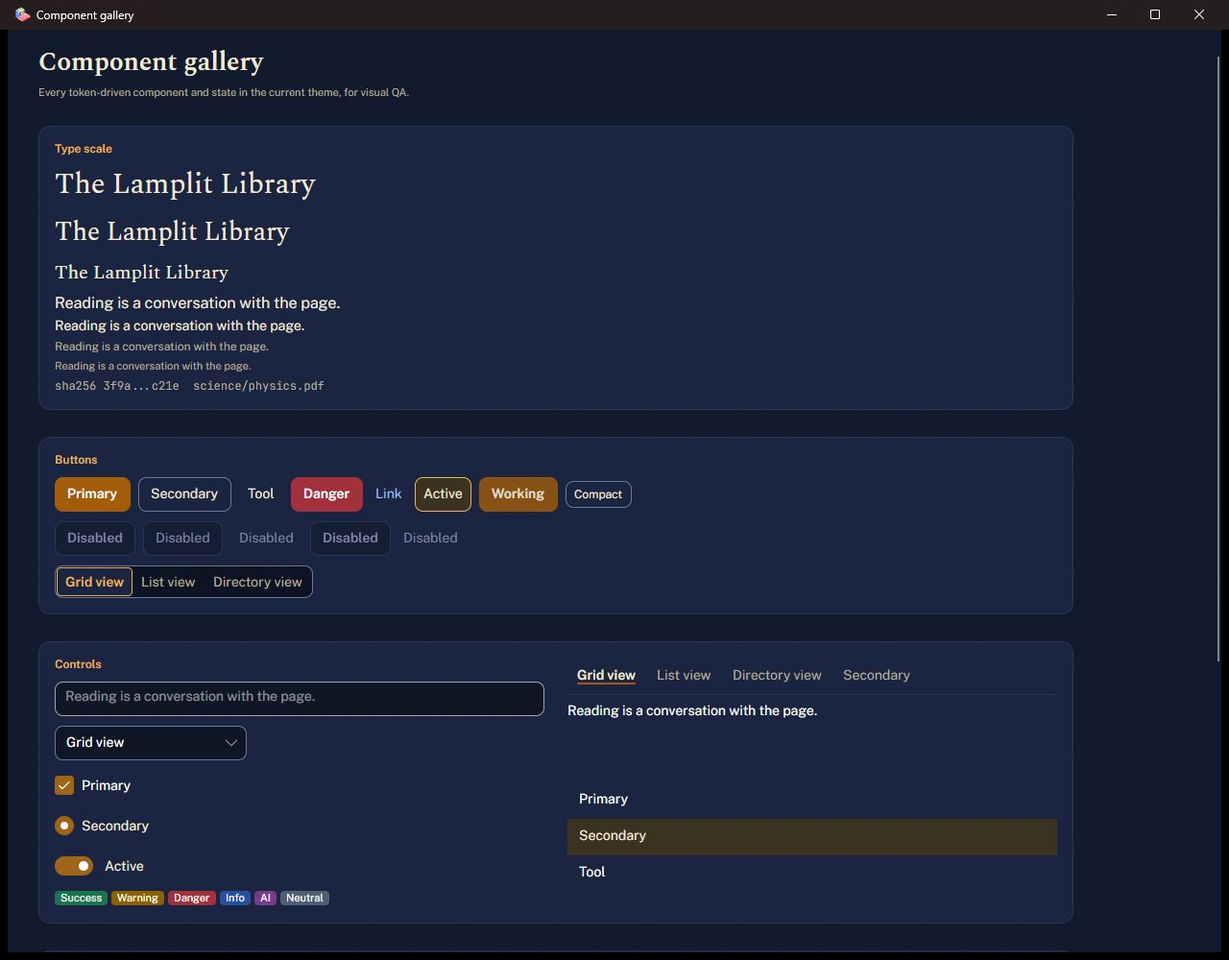
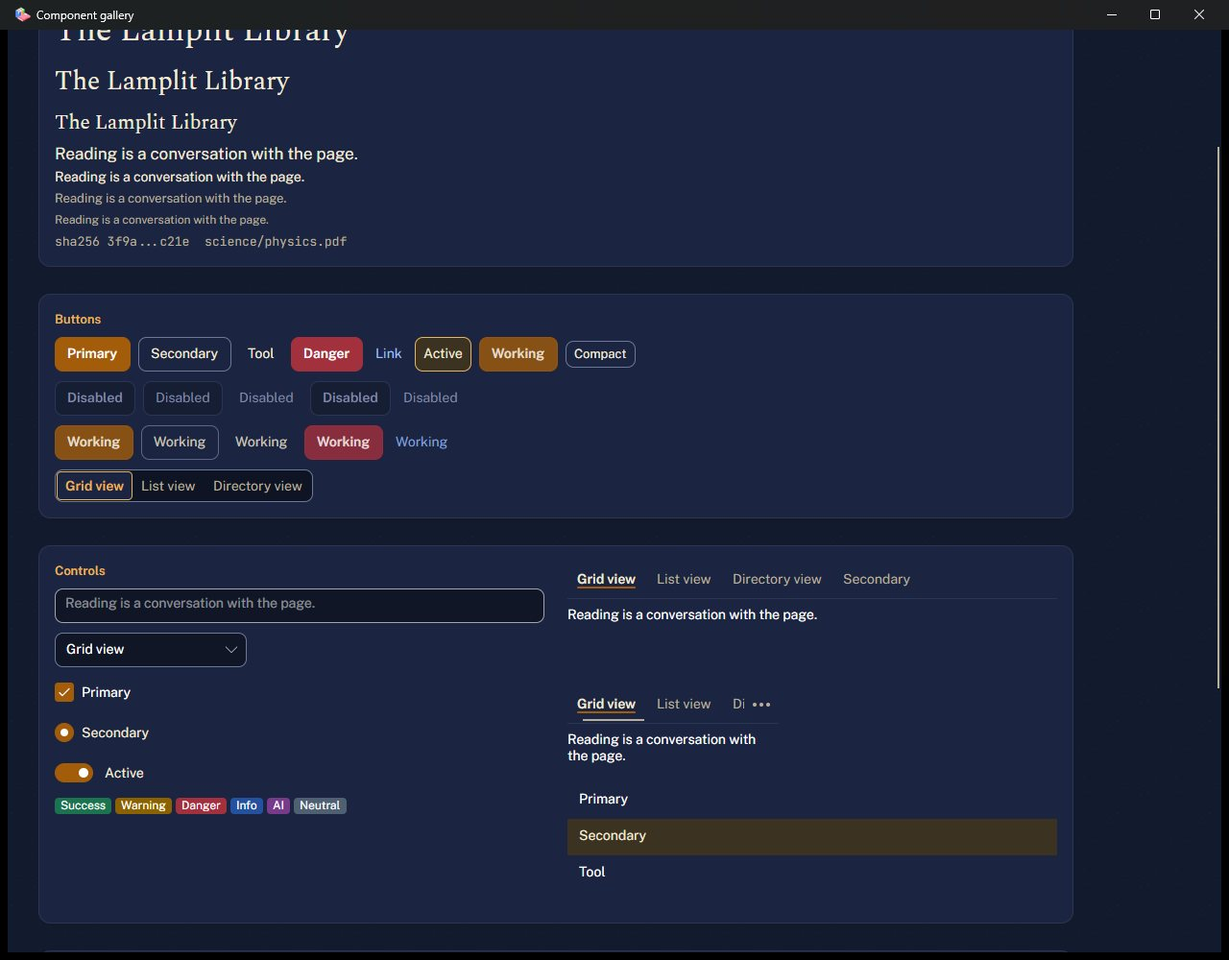
docs(kaizen): record phase 09 completion, gates and evidence
Rewrite the Phase 09 completion record for branch kaizen/phase-09
(rollback acb9d36c): the typeface decision, tasks 9.1-9.11 with
commits, gates with evidence classes, per-journey results at both
sizes in Light and Dark against the baseline K IDs, the design-quality
gate, the HEURISTIC product-design-audit re-score and the NOT ASSESSED
items with owners. Status is IMPLEMENTED, not COMPLETE: the
requirement-accountability script fails on main's archived aug-39
matrix (K100) and the owner walkthrough is pending.

Replace the stale after-screenshots with 22 captures from the final
build (five surfaces at 1280x800 and 1920x1080, Light and Dark, plus
the component gallery). Update the status register, execution log,
milestones, execution status and defect register (K15 partly
resolved, K105 fast-suite slowdown, K106 focus-ring regression fixed
in 5520c82c).

Tested: restore, Release build (0 warnings), vulnerable scan,
analyzers, format, token lint and fast suite (52 + 1,262 + 367 pass)
on 5520c82c; golden journeys under the desktop lock, run
phase09-final2: 78 PASS, 0 FAIL, 16 NOT ASSESSED placeholders;
every relative link in the record resolves.

Changed region(s): [[0.0312, 0.031, 0.6562, 0.961], [0.6875, 0.682, 0.75, 0.713], [0.6875, 0.589, 0.75, 0.62]]

diff --git a/docs/implementation/execution/phase-sept23-09-completion.md b/docs/implementation/execution/phase-sept23-09-completion.md
@@ -1,167 +1,182 @@
 # Sept-23 Phase 09 completion: design system and visual identity ("The Lamplit Library")
 
-Status: **IMPLEMENTED; owner walkthrough and post-fix journey re-run pending** (2026-09-27).
-Branch: lane worktree `agent-a72db4d63c47d6319` (not pushed, not merged), from `acb9d36`.
-Rollback point: `acb9d36`.
+Status: **IMPLEMENTED** (2026-11-19). Not COMPLETE: the open Definition of Done items are listed
+in [Definition of Done check](#definition-of-done-check).
+Branch: `kaizen/phase-09` (published by the autorun driver; not merged by this lane).
+Rollback point: `acb9d36c`.
 Plan: [phase-09](../../plans/sept-23-kaizen/phases/phase-09-design-system-and-visual-identity.md).
-Decision record: [ADR-0019](../../adrs/0019-lamplit-visual-identity.md).
-Defects: K15 (fixed), supports K14 and K33. Owner feedback applied mid-phase (via the
-coordinator): "the UI is a bit dull, too greyish and boring. Amaze me!" The coordinator's
-"Lamplit Library" brief replaced the phase document's neutral reading.
+Decision records: [ADR-0019](../../adrs/0019-lamplit-visual-identity.md); D-14 (the "Lamplit
+Library" brief) and D-15 (TabStrip overflow menu) in the
+[execution log](../../plans/sept-23-kaizen/EXECUTION-LOG.md).
+Defects: K15 (partly resolved, see the [defect register](../../plans/sept-23-kaizen/03-defect-register.md));
+K101 and K106 found and fixed here; K102–K105 found here and handed on.
 
 ## Typeface decision
 
-**Spectral** (display: destination headings, card titles, the home greeting, generated cover
-titles and monograms), **Public Sans** (UI, body, controls, badges, cover author small caps),
-**JetBrains Mono** (paths, hashes, data). All SIL OFL 1.1, bundled, unchanged. No banned font.
-Reason: a humanist editorial serif for a reading product, a neutral legible grotesque for dense
-UI, and a mono distinct from both.
+**Spectral** for display (destination headings, card titles, the home greeting, generated cover
+titles and monograms). **Public Sans** for UI, body text, controls, badges and the small-caps
+author on covers. **JetBrains Mono** for paths, hashes and data. All three are SIL OFL 1.1 and
+bundled. Public Sans ships as static Regular/Medium/SemiBold/Bold instances cut from the
+variable font, because Avalonia ignores variation axes and resolved every weight to Thin.
+Reason: a humanist editorial serif suits a reading product, a neutral, legible grotesque suits
+dense UI, and the mono is distinct from both. Full text:
+[developer guide, typeface decision](../../developer-guide/design-system.md#typeface-decision).
 
-## What changed
+## Tasks
 
-| Task | Result | Commit |
+| Task | Result | Commits |
 |---|---|---|
-| 9.1 Baseline | Real-window baseline (old build, Light, 1280×800) under the desktop lock; three "before" captures kept in `evidence/.../phase-09/before/`. Dark baseline: NOT ASSESSED (the runner stops after the Light pass fails on the known K32 page-turn budget) | — |
-| 9.2 Type scale | Caption 12 (floor), Small 13, Body 14, BodyLarge 16, Subtitle 17, Title 21, Headline 27, Display 34; `Type.Size.Glyph` for glyph icons. Literal `FontSize` in `Views/**`: **16 → 0** | `c41600a`, `6316143` |
-| 9.3 Colour roles | Lamplit palette: jewel primitives (amber, lapis, malachite, garnet, plum, slate, saffron, teal) and roles `Surface.*`, `Text.*`, `Control.*`, `Accent.Primary/Hover/Pressed/Text/OnAccent/Glow`, `Link`, `Selection.*`, `Status.*`, `Rail.*`, `Focus`, `Hue.*`, `Dest.*`, `Cover.Gilt`; paper-grain canvas brush; hero gradient; warm elevation shadows. Night Library Dark theme (indigo #121A2E, parchment text, gold accents). Fluent accent pinned to amber | `c41600a` |
-| 9.4 Components + gallery | Button variants `primary`, secondary (default), `tool`/`quiet`, `danger`, `link` + `icon`, `compact`, `busy`, `active`; states rest/hover/pressed/focus-visible/disabled. TabStrip (Body size, one scrollable row), segmented control, badge/chip, text field, toggles, list/tree rows, card, book card. Living gallery `Views/Dev/ComponentGallery.axaml` (hidden QA command **Ctrl+Shift+Alt+G**), rendered Light/Dark by a headless test | `c41600a`, `d3fc2bc` |
-| 9.5 View migration | Every accent-filled button uses a variant; `White`/`Black` literals **61 → 0**; hex **0 → 0**; buttons with local fills **43 → 1** (the Search panel, owned by the concurrent Phase 13 lane; token substitution only) | `6316143` |
-| 9.6 Selection/focus | `ListBoxItem`/`TreeViewItem`/`ToggleButton` selection use `Selection.*` (amber tint + 2 px amber border; amber glow on book cards); the salmon OS accent no longer appears. 2 px `Focus` ring on buttons, tabs, list rows, text fields, combo; rail has its own `Rail.Focus` | `c41600a` |
-| 9.7 Icons (D-07) | 85 `IconCatalog` keys → Lucide outlines (ISC, `@iconify-json/lucide` 1.2.110, licence verified from the vendored package metadata) recoloured as duotones in destination/category hues by `scripts/icons/New-DuotoneIcons.py`. The previous Flaticon/Freepik files had no licence record and were superseded. `docs/governance/asset-licence-register.md` and `Assets/icons/LICENSE-ICONS.txt` added | `921d1c5` |
-| 9.8 Generated covers | `GeneratedCover`: FNV-1a title hash → 8 jewel cloths × 3 weaves, gradient, spine band + edge highlight, gilt frame, Spectral title, small-caps author (omitted when unknown), monogram below 100 px. Pure vector, no file write. Extracted covers still win | `d1fdeed` |
-| 9.8+ Library home | Greeting header (morning/afternoon/evening), library size, strip of books to continue with progress rings, or the first shelved books when none is in progress. Keys `Catalogue.Home.*` (en, fr) | `d1fdeed` |
-| 9.9 QR | `QrCodeView` draws QRCoder modules as vectors with a 4-module quiet zone and ≥ 4 px modules; the 4 px Consolas text QR is gone | `6316143` |
-| 9.10 Lint | `scripts/Test-DesignTokens.ps1` + CI step. MEASURED red on a seeded `FontSize="11" Foreground="White"` (2 violations, exit 1) and green after removal (exit 0) | `589ffbe` |
-| Motion | Card lift, shadow and button colour transitions only under the window `motion` class, withheld when Windows "Show animations" is off or `OGMA_REDUCED_MOTION=1` (`MotionPreference`) | `c41600a` |
-| Rail | Deep midnight-ink rail in both themes; per-destination hue for icon, active indicator and the header accent bar | `8d825a5` |
-| 9.11 Re-score | See the design-quality gate and score below | `ecc1cba`, this record |
+| 9.1 Baseline | The real-window baseline (old build, Light, 1280x800) is in `evidence/.../phase-09/before/`. The Dark baseline is NOT ASSESSED: the runner stopped after the Light pass failed on K32 | — |
+| 9.2 Type scale | Caption 12 (the floor), Small 13, Body 14, BodyLarge 16, Subtitle 17, Title 21, Headline 27, Display 34. Line-height and icon-size tokens were added. Literal `FontSize` in views went from 16 to 0. Preference changes no longer rewrite the scale (K101) | `c41600a3`, `63161432`, `591f50a5` |
+| 9.3 Colour roles | Lamplit jewel primitives and semantic roles (`Surface`, `Text`, `Control`, `Accent`, `Selection`, `Status`, `Rail`, `Focus`, `Dest`, `Cover`), plus the Night Library dark theme | `c41600a3`, `70a0bd68`, `55e4632e` |
+| 9.4 Components and gallery | Button variants and states, toggle and drop-down buttons, TabStrip, segmented control, badge, text field (focused fields stay on the raised surface), list and tree rows, cards. The living gallery opens with Ctrl+Shift+Alt+G | `c41600a3`, `d3fc2bce`, `33fcd467`, `b4eebd46` |
+| 9.5 View migration | Every view uses variants and tokens. `White`/`Black` literals went from 61 to 0; hex literals in views are 0. The lint was extended to code-behind and `App.axaml` | `63161432`, `56c6aa27` |
+| 9.6 Selection and focus | Amber `Selection.*` replaces the salmon OS accent. The 2 px Focus ring is now a layout-neutral focus adorner (K106) | `c41600a3`, `5520c82c` |
+| 9.7 Icons (D-07) | 85 Lucide (ISC) duotone icons with a licence register | `921d1c5c` |
+| 9.8 Covers and home | Generated cloth-bound covers, a top-anchored extracted cover, a greeting home strip, and in-place grid updates | `d1fdeed0`, `fee04e5b`, `197f0794`, `8d825a5e` (rail) |
+| 9.9 QR | A vector QR with a quiet zone and modules of at least 4 px | `63161432` |
+| 9.10 Lint | `scripts/Test-DesignTokens.ps1` plus a CI step | `589ffbed`, `56c6aa27` |
+| 9.11 Re-score and record | See the [design-quality gate](#design-quality-gate). The TabStrip overflow menu (D-15) was brought forward from Phases 11/12 | `ecc1cbac`, `62824031`, `ce2132ea`, `e09b7f5b`, this record |
 
-## Tests added
-
-`tests/OgmaLibrary.Tests.Ui/Sept23Phase09DesignSystemTests.cs` (88 cases with theories):
-contrast matrix — 46 text pairs ≥ 4.5:1 and 33 non-text pairs ≥ 3:1, each in Light and Dark;
-Night canvas is indigo and dark; type floor and ratios; no literal font size or colour in any
-view; every SVG registered, duotone and licensed; cover determinism and variety (17 titles →
-≥ 5 cloths); cover render in both themes; variant fills and focus ring; tabs at 14 px on one
-row; gallery renders Light/Dark with no missing en/fr label.
+`94764452` merged `main` into the lane, and `f7b792c9` is the earlier version of this record.
+The focus-ring regression fix is `5520c82c`. Tests are in
+`tests/OgmaLibrary.Tests.Ui/Sept23Phase09DesignSystemTests.cs`: the contrast matrix in both
+themes, the type floor and ratios, no literal size or colour, icons and licences, cover
+determinism, variants, tabs, gallery labels in en and fr, density scaling, and the focus ring
+leaving layout unchanged.
 
 ## Gates
 
-Windows 11, Release, lane branch after `git merge main --no-ff` (`778314a`, no conflicts: `main` only
-brought docs since `acb9d36`, so no view from `main` needed re-tokening).
+Windows 11, Release. First run on `135187f3` (the lane head before this slice's fix), logs in
+`artifacts/phase09-gates/`. Re-run on the final code commit `5520c82c` (restore, build,
+vulnerable scan, analyzers, fast suite), logs in `artifacts/phase09-gates/final/` (local).
 
 | Gate | Result | Evidence class |
 |---|---|---|
-| `Test-RequirementAccountability.ps1` | PASS (101 FRs, 29 NFRs, 32 controls, 162 IDs) | MEASURED |
-| `dotnet restore --locked-mode` | PASS | MEASURED |
-| `dotnet format --verify-no-changes` | PASS (0 changes; re-run after the final fixes) | MEASURED |
-| Release build | PASS, 0 warnings, 0 errors (re-run after the final fixes) | MEASURED |
-| `dotnet list package --vulnerable --include-transitive` | PASS, no vulnerable package in 11 projects | MEASURED |
-| `dotnet format analyzers --severity warn` | PASS | MEASURED |
-| `scripts/Test-DesignTokens.ps1` | PASS ("clean"; re-run after the final fixes) | MEASURED |
-| `dotnet test OgmaLibrary.sln -m:1 --filter "Category!=Performance"` on `778314a` | Architecture 52/52, core 1,152/1,152, UI 303/303 (1,507, 0 failures). The same command also ran the E2E project (18/43 pass) **outside the desktop lock** while other lanes ran real-window work, so those E2E numbers are not evidence; the locked run below is | MEASURED |
-| UI project after the final fixes (`BodyFont_*`, cover brush) | 307/307 | MEASURED |
-| Core/architecture after the final fixes | Pending: re-run `dotnet test ... --filter "Category!=Performance"` (only App views/theme and UI tests changed) | NOT ASSESSED |
+| `Test-RequirementAccountability.ps1` | **FAIL**: it throws "Requirement-to-phase matrix not found: …docs\plans\aug-39\appendices\01-requirement-phase-matrix.md". Main removed `aug-39` in `3b985c67` (K100). Not caused by Phase 09 | MEASURED |
+| `dotnet restore --locked-mode` | PASS (exit 0 on both commits) | MEASURED |
+| `dotnet format --verify-no-changes` | PASS (exit 0); re-run on `5520c82c`: PASS | MEASURED |
+| Release build | PASS, 0 warnings, 0 errors (both commits) | MEASURED |
+| `dotnet list package --vulnerable --include-transitive` | PASS: none of the 11 projects has a vulnerable package (both commits) | MEASURED |
+| `dotnet format analyzers --severity warn` | PASS (exit 0, both commits) | MEASURED |
+| `dotnet test -m:1` (fast suite) | On `5520c82c`: Architecture 52/52, OgmaLibrary.Tests 1,262/1,262 (16.2 min, K105), Ui 367/367, 0 failures. On `135187f3`: Architecture 50/50 (the first log does not list test names, so the cause of the 50 → 52 difference is not established; no skip or trait exists in that project), 1,262/1,262 (18 min 29 s), 364/364 | MEASURED |
+| `scripts/Test-DesignTokens.ps1` | PASS ("Design-token lint: clean."), also on `5520c82c` | MEASURED |
+| E2E app build (`-p:OgmaE2EHooks=true`) | PASS, 0 warnings, 0 errors (on `5520c82c`) | MEASURED |
+| `shelf3d` npm gates | Not applicable (`src/shelf3d` unchanged) | — |
+| Hosted CI run | NOT ASSESSED (the driver pushes after this session) | NOT ASSESSED |
 
-Red/green: `BodyFont_ResolvesToTheRequestedWeightNotTheThinDefault` failed 4/4 with the old variable
-file (`Expected "Public Sans", Actual "Public Sans Thin"`) and passes 4/4 with the static instances.
+Red and green runs: `FocusRing_DoesNotChangeControlSize` failed 3/3 (focused width 61 → 63 px)
+and passes 3/3 after `5520c82c`. Earlier slices: K101 `DensityScaling_*` and `BodyFont_*`.
 
 ## Real-window results
 
-### Golden journeys (desktop lock, run id `phase09-all`, 1280x800 and 1920x1080)
+### Golden journeys (desktop lock owner `phase-09`, Light and Dark, 1280x800 and 1920x1080)
 
-Build: lane at `778314a` (after the merge, **before** the three fixes below). Summary:
-`artifacts/e2e/phase09-all/results.md` (local, not committed). 43 tests: 28 pass, 15 fail.
+Final run `phase09-final2` on `5520c82c` (`artifacts/e2e/phase09-final2/results.md`, local).
+Every assessed test passes in both themes and at both sizes: **78 PASS, 0 FAIL, 16 NOT
+ASSESSED** (39 per theme; the NOT ASSESSED rows are the G9–G12 placeholders). The previous run on `135187f3`
+(`artifacts/e2e/phase09-final`) is shown for comparison.
 
-| Journey | 1280x800 | 1920x1080 | On `main` | Regression? |
+| Journey | 1280x800 L / D | 1920x1080 L / D | Run on `135187f3` | Baseline (audit) K IDs |
 |---|---|---|---|---|
-| G1 first run | PASS | PASS | PASS | no |
-| G2 add library, covers | PASS | PASS | PASS | no |
-| G3 read 50 pages | BASELINE-FAIL (K32, K94) | BASELINE-FAIL | failing | no |
-| G4 search | BASELINE-FAIL (K40, K41) | BASELINE-FAIL | failing | no |
-| G5 resume | PASS | PASS | PASS | no |
-| G6 invalid files | PASS | PASS | PASS | no |
-| G7 Advisor unconfigured | PASS | PASS | PASS | no |
-| G8 worker killed while reading | PASS (baseline cleared) | PASS (baseline cleared) | PASS | no |
-| G8 corrupt settings | BASELINE-FAIL (K95, K28) | BASELINE-FAIL | failing | no |
-| Navigation (3 tests) | PASS | PASS | PASS | no |
-| Settings (2 tests) | PASS | PASS | PASS | no |
-| A11yNames catalogue / search | PASS / BASELINE-FAIL (K40, K41) | PASS / BASELINE-FAIL | — | no |
-| Smoke, Harness (3) | PASS | n/a | PASS | no |
-| ScanOcrSearch | FAIL (K21: no OCR badge, OCR search misses) | FAIL | failing | no (owned by stabilisation lane / Phase 13) |
-| LaunchCycles | FAIL (5/20 closes needed a kill; K71) | n/a | failing (3/20) | no Phase 09 cause; load-sensitive (K71, Phase 24) |
-| G9–G12 placeholders | NOT ASSESSED | NOT ASSESSED | — | — |
+| G1 first run | PASS / PASS | PASS / PASS | PASS | — |
+| G2 add library, covers | PASS / PASS | PASS / PASS | PASS | was failing at the audit |
+| G3 read 50 pages (p95 ≤ 250 ms) | PASS / PASS | PASS / PASS | 3 of 4 FAIL (Dark 1920 p95 257 ms; page did not advance in Dark 1280 and Light 1920) | K32, K94: **cleared in this run, but not yet stable** |
+| G4 search, expected book in top 3 | PASS / PASS | PASS / PASS | Light 1920 FAIL (author "Grace Namutebi" → top 3 empty) | K40, K41: **cleared in this run, but not yet stable** |
+| G5 resume after relaunch | PASS / PASS | PASS / PASS | Dark 1280 FAIL ("Could not leave page 6") | — (flake, not reproduced) |
+| G6 invalid files | PASS / PASS | PASS / PASS | PASS | was failing |
+| G7 Advisor unconfigured | PASS / PASS | PASS / PASS | PASS | — |
+| G8 worker killed while reading | PASS / PASS | PASS / PASS | PASS | baseline cleared earlier |
+| G8 corrupt settings | PASS / PASS | PASS / PASS | PASS | K95, K28 (passing since the stabilisation lane) |
+| Navigation (3 tests) | PASS / PASS | PASS / PASS | Drawers FAIL at 1280, both themes | **K106**, a Phase 09 regression, fixed in `5520c82c` |
+| Settings (2 tests) | PASS / PASS | PASS / PASS | PASS | — |
+| A11yNames catalogue / search | PASS / PASS | PASS / PASS | PASS | — |
+| ScanOcrSearch | PASS / PASS | PASS / PASS | PASS | K21, K97 (passing since the stabilisation lane / Phase 17) |
+| LaunchCycles (20 launch/close) | PASS / PASS | n/a | PASS | K71 (load-sensitive; passed in both runs) |
+| Smoke, Harness (3) | PASS / PASS | n/a | PASS | — |
+| G9–G12 placeholders | NOT ASSESSED | NOT ASSESSED | NOT ASSESSED | owned by Phases 10, 11, 18, 19–20 |
 
-**No journey that passes on `main` regressed.** Post-fix journey re-run: **pending** (next step:
-`& ./scripts/Use-DesktopLock.ps1 -Owner 'phase-09' -ScriptBlock { ./tests/OgmaLibrary.Tests.E2E/Invoke-GoldenJourneys.ps1 -All -Sizes 1280x800,1920x1080 }`
-on the final commit; G2 is the one most likely affected, by the cover brush change).
+The G3, G4 and G5 failures on `135187f3` did not reproduce on the final build. The earlier
+failures were load-sensitive (G3's p95 was 257 ms against a 250 ms budget), so this run does not
+close K32 or K40; one green run is not a trend. The K106 failure was deterministic: the
+Navigation re-check `phase09-nav-recheck` failed again before the fix.
 
-### Visual defects found in the real window and fixed
+### Screenshots (final build `5520c82c`, synthetic corpus, isolated data dir, desktop lock)
 
-| Defect (seen in the first "after" captures) | Root cause | Fix | Evidence |
-|---|---|---|---|
-| All Public Sans text rendered as faint grey hairlines in Light ("greyish" even though the text tokens pass 4.5:1): darkest rendered ink on "Appearance" was `#746D59` for a `#1F1A14` token | The bundled `PublicSans-VF.ttf` has default instance **Thin (100)**; Avalonia ignores variation axes, so every weight resolved to "Public Sans Thin" | Cut static Regular/Medium/SemiBold/Bold instances (fontTools 4.63 `varLib.instancer`, OFL, no Reserved Font Name) and removed the variable file; register updated; headless guard added | MEASURED (red/green test; screenshots) |
-| Grid covers lost their title band: a centred UniformToFill crop showed only the middle of first-page covers | `Image Stretch="UniformToFill"` always crops around the centre | Cover drawn as a top-anchored `ImageBrush` (`AlignmentY=Top`); Phase 19 cover test asserts it | MEASURED (test) + HEURISTIC (screenshots) |
-| "More" (DropDownButton) and the Settings "Needs attention" toggle kept Fluent's off-palette grey fill | The `Button` selector does not match `ToggleButton`/`DropDownButton` | Rest/hover/pressed/focus rules on Lamplit `Control.*` tokens | HEURISTIC (screenshots) |
-| Component gallery opened Dark over a Light window; Ctrl+Shift+Alt+G sometimes swallowed | Gallery copied the owner's `ActualThemeVariant`; gesture handled on bubble after focused controls | Gallery follows the application theme; gesture moved to a tunnel handler | HEURISTIC (screenshots) |
+| Surface | Light 1280x800 | Dark 1280x800 | Light 1920x1080 | Dark 1920x1080 |
+|---|---|---|---|---|
+| Library home | [jpg](evidence/sept-23-kaizen/phase-09/after/library-home-light-1280x800.jpg) | [jpg](evidence/sept-23-kaizen/phase-09/after/library-home-dark-1280x800.jpg) | [jpg](evidence/sept-23-kaizen/phase-09/after/library-home-light-1920x1080.jpg) | [jpg](evidence/sept-23-kaizen/phase-09/after/library-home-dark-1920x1080.jpg) |
+| Book detail | [jpg](evidence/sept-23-kaizen/phase-09/after/book-detail-light-1280x800.jpg) | [jpg](evidence/sept-23-kaizen/phase-09/after/book-detail-dark-1280x800.jpg) | [jpg](evidence/sept-23-kaizen/phase-09/after/book-detail-light-1920x1080.jpg) | [jpg](evidence/sept-23-kaizen/phase-09/after/book-detail-dark-1920x1080.jpg) |
+| Reader | [jpg](evidence/sept-23-kaizen/phase-09/after/reader-light-1280x800.jpg) | [jpg](evidence/sept-23-kaizen/phase-09/after/reader-dark-1280x800.jpg) | [jpg](evidence/sept-23-kaizen/phase-09/after/reader-light-1920x1080.jpg) | [jpg](evidence/sept-23-kaizen/phase-09/after/reader-dark-1920x1080.jpg) |
+| Search | [jpg](evidence/sept-23-kaizen/phase-09/after/search-light-1280x800.jpg) | [jpg](evidence/sept-23-kaizen/phase-09/after/search-dark-1280x800.jpg) | [jpg](evidence/sept-23-kaizen/phase-09/after/search-light-1920x1080.jpg) | [jpg](evidence/sept-23-kaizen/phase-09/after/search-dark-1920x1080.jpg) |
+| Settings | [jpg](evidence/sept-23-kaizen/phase-09/after/settings-light-1280x800.jpg) | [jpg](evidence/sept-23-kaizen/phase-09/after/settings-dark-1280x800.jpg) | [jpg](evidence/sept-23-kaizen/phase-09/after/settings-light-1920x1080.jpg) | [jpg](evidence/sept-23-kaizen/phase-09/after/settings-dark-1920x1080.jpg) |
+| Component gallery (1280x1000) | [jpg](evidence/sept-23-kaizen/phase-09/after/component-gallery-light.jpg) | [jpg](evidence/sept-23-kaizen/phase-09/after/component-gallery-dark.jpg) | — | — |
 
-### Screenshots (final build, synthetic corpus, isolated data dir, desktop lock)
+All 22 files replace the earlier set; the old book-detail dark capture, taken at the wrong size,
+is gone. The before captures are in `evidence/sept-23-kaizen/phase-09/before/` and the owner
+concepts in `concept/`. Known visual issues that remain: the reader toolbar clips at 1280 (K104),
+and synthetic first-page covers are mostly white pages with small titles, which is content, not
+styling.
 
-Light and Dark ("Night Library"), 1280x800 except where noted:
-[library home light](evidence/sept-23-kaizen/phase-09/after/library-home-light.jpg),
-[library home dark](evidence/sept-23-kaizen/phase-09/after/library-home-dark.jpg),
-[book detail light](evidence/sept-23-kaizen/phase-09/after/book-detail-light.jpg),
-[book detail dark](evidence/sept-23-kaizen/phase-09/after/book-detail-dark.jpg) (window came up maximised at 2576x1456; the resize did not apply),
-[reader light](evidence/sept-23-kaizen/phase-09/after/reader-light.jpg),
-[reader dark](evidence/sept-23-kaizen/phase-09/after/reader-dark.jpg),
-[settings light](evidence/sept-23-kaizen/phase-09/after/settings-light.jpg),
-[settings dark](evidence/sept-23-kaizen/phase-09/after/settings-dark.jpg),
-[component gallery light](evidence/sept-23-kaizen/phase-09/after/component-gallery-light.jpg),
-[component gallery dark](evidence/sept-23-kaizen/phase-09/after/component-gallery-dark.jpg) (1280x1000).
-The rail appears in every shell capture.
-
-Observed and not fixed (outside Phase 09 scope): the reader toolbar and annotation tabs clip at
-1280 px (Phase 12, TabStrip/toolbar overflow); synthetic first-page covers are mostly white pages
-with small titles (content, not styling).
-
-## Design-quality gate (design-system-skills/governance/design-quality-gate.md)
+## Design-quality gate
 
 | Item | Result | Evidence class |
 |---|---|---|
-| Typeface named and justified before output; no banned font | PASS | MEASURED (token test asserts Spectral/Public Sans/JetBrains Mono; no other family in views) |
-| Display + body pairing | PASS | HEURISTIC (screenshots) |
-| Type scale real ratio, ≥ 12 px floor | PASS (UI steps 1.21–1.24, display 1.26–1.29; Caption→Body 1.17 is floor-clamped and recorded) | MEASURED (test) |
-| Line-height inverse rule | NOT ASSESSED (no line-height tokens yet) | NOT ASSESSED |
-| Licence permits embedding (fonts, icons) | PASS | MEASURED (licence files present; register) |
-| Contrast text ≥ 4.5:1, large/UI ≥ 3:1 in every theme | PASS on token pairs | MEASURED (matrix test). Rendered-pixel check only for Oak/parchment (existing Phase 18 test) |
-| Colour never the only carrier | PASS (badges carry text; selection adds border/glow) | HEURISTIC |
-| Consistent spacing on one unit | PARTIAL (4-pt tokens exist; many views still use literal margins) | HEURISTIC |
-| State matrix per component | PASS for buttons/tabs/lists (gallery); loading/empty/error states unchanged | HEURISTIC (gallery screenshots) |
-| Disabled controls explain why | NOT ASSESSED (Phase 21) | NOT ASSESSED |
-| Keyboard operable, focus always visible | Focus ring styled on all interactive controls | HEURISTIC (gallery); screen reader NOT ASSESSED (Phase 21) |
-| Targets ≥ 24×24 | PASS (buttons ≥ 36, link ≥ 24, segments 30) | MEASURED (existing 36 px test + styles) |
-| Reduced motion respected | PASS (motion class gated on OS setting) | CODE; OS toggle run NOT ASSESSED |
-| 200 % zoom / 320 px reflow | NOT ASSESSED (desktop min 860 px; Phase 21) | NOT ASSESSED |
-| Windows high-contrast mode | NOT ASSESSED | NOT ASSESSED |
-| Premium authorship: one signature choice | "Lamplit" rail + cloth-bound covers | HEURISTIC; owner verdict pending |
-| Final verdict | **CONDITIONAL** (owner walkthrough, high-contrast, zoom and screen-reader checks outstanding) | — |
+| Typeface named and justified; no banned font | PASS | MEASURED (token test) |
+| Display and body pairing | PASS | HEURISTIC (screenshots) |
+| Real type-scale ratio, 12 px floor | PASS (it also survives preference changes, K101) | MEASURED |
+| Line-height inverse rule | PASS on tokens (`Type.LineHeight.*`) | MEASURED (test) |
+| Licence permits embedding (fonts, icons) | PASS | MEASURED (licence files and register) |
+| Contrast: text ≥ 4.5:1, UI ≥ 3:1, both themes | PASS on token pairs | MEASURED (matrix test) |
+| Colour is never the only carrier | PASS | HEURISTIC |
+| Spacing on one unit | PARTIAL (literal margins remain in views; Phases 10–12) | HEURISTIC |
+| State matrix per component | PASS for buttons, tabs and lists | HEURISTIC (gallery) |
+| Focus always visible and never moves layout | PASS (K106 fixed) | MEASURED (test, Navigation journey) |
+| Targets ≥ 24×24 | PASS | MEASURED |
+| Reduced motion respected | PASS in code; the OS-toggle run is NOT ASSESSED | CODE |
+| 200 % text, clipping harness, high contrast, screen reader | NOT ASSESSED (the harness does not support them yet; Phases 21/22) | NOT ASSESSED |
+| Final verdict | **CONDITIONAL**: owner walkthrough, accessibility runs and K104 outstanding | — |
 
-`product-design-audit` 11-dimension score (HEURISTIC, from the real-window screenshots): before
-≈ 48/100 raw (capped at 59 by the salmon off-palette selection and sub-12 px caption gates);
-after ≈ 76/100 raw, no gate failure, confidence medium (single rater, Windows only).
+`product-design-audit` 11-dimension re-score, **HEURISTIC** (single rater, Windows only, from the
+screenshots above): before about 48/100 raw (capped at 59 by the off-palette selection and the
+sub-12 px caption); after about 78/100 raw, no gate failure, confidence medium. Remaining
+deductions: reader toolbar clipping (K104), *Rename* overflow and the literal `||` split control
+(K15 remainder), and spacing tokens not yet enforced.
+
+## Definition of Done check
+
+| DoD item (08-master-plan §5) | Holds? |
+|---|---|
+| 1 Tasks done or moved with a reason | Yes (deferrals below) |
+| 2 Full gate set passes | **No**: the accountability script fails on K100 (from `main`). Every other gate and every assessed journey passes on the final build; hosted CI is NOT ASSESSED |
+| 3 Tests failed before and pass after | Yes |
+| 4 Before and after screenshots at both sizes, seen by the owner | **Partly**: the "after" set is complete; "before" exists only for Light 1280; the owner walkthrough is pending |
+| 5 en/fr strings, tokens, accessible names | Yes (the lint and the A11yNames journeys pass) |
+| 6 Completion record | Yes (this file) |
+| 7 Status files updated | Yes |
+
+## Premise corrections
+
+- The accountability gate cannot pass on this branch: `aug-39` was archived on `main` (K100).
+- D-15 (TabStrip) was already logged by slice 3, so it was not duplicated.
+- `Invoke-GoldenJourneys.ps1` has `-TextScale` and `-ClippingCheck` switches, but the 200 % and
+  clipping checks are not yet implemented (Phases 21/22), so they are NOT ASSESSED.
+- The Avalonia engine route (the design-engine Avalonia skill) was not consulted in this slice:
+  NOT ASSESSED.
 
 ## NOT ASSESSED and deferrals
 
 | Item | Owner / phase |
 |---|---|
-| Owner walkthrough of the concept screenshots and gallery (D-07 / "amaze me" acceptance) | Owner |
-| Golden-journey re-run on the final commit (after the font, cover and toggle fixes) and the full `dotnet test` gate | Coordinator / next lane session |
+| Owner walkthrough of the screenshots and gallery (D-14 "amaze me" acceptance) | Owner |
 | Premium icon purchase (drop-in replacement, key for key) | Owner (D-07) |
 | QR scan with a physical phone | Owner / tester |
-| Windows high-contrast mode, 200 % scaling, screen reader on new controls | Phase 21 |
+| Windows high-contrast mode and screen reader on the new controls | Phase 21 |
+| 200 % text and the clipping harness | Phases 21/22 |
 | macOS rendering of fonts, icons and covers | Phase 27 |
-| Route cross-fade and drawer slide animations (styles prepared: `Border.route-host`) | Phase 10/12 |
-| TabStrip overflow menu (tabs scroll in one row today) | Phases 11/12 |
+| Hosted CI run on the pushed branch | Driver / coordinator |
+| Avalonia engine route (design-engine Avalonia guidance) | Next design slice |
+| Reader toolbar clipping at 1280 (K104); tab overflow adoption in the inspector and reader; *Rename* overflow; literal `||` split control | Phases 11/12 |
+| Fast-suite slowdown (K105) | Phase 24 |
 | App icon provenance (`Assets/app*`) | Owner |
-| Pre-existing French mojibake in `InMemoryLocalizationService` (e.g. `IndexÃ©`) — observed, not changed | Phase 22 |
-| Remaining literal margins/paddings in views (spacing tokens not yet enforced) | Phases 10–12 |
+| Remaining literal margins and paddings in views | Phases 10–12 |

diff --git a/docs/plans/sept-23-kaizen/03-defect-register.md b/docs/plans/sept-23-kaizen/03-defect-register.md
@@ -40,7 +40,7 @@ Screenshots are in [`evidence/screens/`](evidence/screens/). The command logs ar
 | K12 | P1 | MEASURED | Panels stack instead of switching. Search, Index Manager, Filter, Sharing, Split view and Relocation reviews remain open together and squeeze the catalogue into a strip. *Library* does not close them. A value typed into an earlier panel's field (for example *Filter by title*) stays live under later screens and can silently filter the catalogue. | `sheet2.png` | 07 |
 | K13 | P1 | MEASURED | The status bar is wrong. It says "Ready — choose a library folder to begin" with 17 books loaded, and progress reads "59 / 17 files" and then "Scanned 77 files" for 17 files. Scan progress and asset-job progress share one counter (`BookIngestionWorker.cs:79-91`). | `j2-scanned.png`, `j2-screen.png`, `j3-grid.png` | 03, 06 |
 | K14 | P1 | MEASURED | Screen readers hear C# record dumps. Catalogue items expose `BookSummaryProjection { BookId = 01M3…, Title = … }` and search results expose `SearchResultItem { BookId = … }` as their accessible names. `AutomationProperties.Name` is set on the inner `Border`, not on the `ListBoxItem`. | UIA dumps | 10, 13, 21 |
-| K15 | P1 | MEASURED/HEURISTIC | The visual system is incoherent. There are four unrelated button styles in one toolbar. The selection highlight is an off-palette salmon. Detail and reader side-panel tab headers render at display size and wrap onto three rows. Disabled buttons have low contrast. *Rename* overflows the sidebar. Split view uses a literal `||`. Icons are tiny and inconsistent. The reader page raster is blurry. The Caption token is 11 px (below the design engine's 12 px floor). There are 21 hard-coded `FontSize` values and 5 hard-coded `Foreground="White"`. The fonts themselves (Spectral, Public Sans, JetBrains Mono) are licensed and compliant. | `j3-detail.png`, `j4-reader.png`; `Themes/Tokens.axaml:134-136` | 09, 11, 12 |
+| K15 | P1 | MEASURED/HEURISTIC | (Phase 09 part resolved 2026-11-19, branch `kaizen/phase-09`, record `phase-sept23-09-completion.md`: one button-variant set, amber `Selection.*` instead of salmon, 14 px single-row tabs with an overflow menu, Caption 12 px, 0 literal `FontSize`/`White`/hex in views, lint in CI. Still open for Phases 11/12: *Rename* overflow, the literal `||` split control, adoption of the tab overflow menu in the inspector and reader, reader toolbar clipping K104.) The visual system is incoherent. There are four unrelated button styles in one toolbar. The selection highlight is an off-palette salmon. Detail and reader side-panel tab headers render at display size and wrap onto three rows. Disabled buttons have low contrast. *Rename* overflows the sidebar. Split view uses a literal `||`. Icons are tiny and inconsistent. The reader page raster is blurry. The Caption token is 11 px (below the design engine's 12 px floor). There are 21 hard-coded `FontSize` values and 5 hard-coded `Foreground="White"`. The fonts themselves (Spectral, Public Sans, JetBrains Mono) are licensed and compliant. | `j3-detail.png`, `j4-reader.png`; `Themes/Tokens.axaml:134-136` | 09, 11, 12 |
 | K16 | P1 | CODE+MEASURED | There is no settings screen. Theme and density are reachable only through the command palette. Language can neither be chosen nor persisted, and French is unreachable. Metadata providers, the classroom Host and the 3D shelf can be enabled **only by environment variables** (`OgmaRuntimeOptions.cs:33-64`), which normal users cannot use. | Code read; no settings route in UIA tree | 08 |
 | K17 | P1 | MEASURED | Entries are dead or misleading. *AI Smart Search* appears in standalone mode but works only with a classroom Host. *Sharing* opens an almost empty page without the env flag. `OGMA_ENABLE_3D_SHELF` changes only a diagnostic string. Three host panels are hard-coded `IsVisible="False"` (`CatalogueShellView.axaml:558,658,734`). The dead `MainWindow`/`MainWindowViewModel` still contain a second copy of the scan logic. | `sheet1.png`, `sheet2.png`; code | 07, 08 |
 
@@ -111,6 +111,8 @@ Screenshots are in [`evidence/screens/`](evidence/screens/). The command logs ar
 | K102 | P2 | MEASURED | (Found by Phase 09 slice 4, 2026-11-19.) G2 at 1920x1080 fails intermittently with `COMException: Unexpected HRESULT` from `IUIAutomationElement.FindAll` in `Uia.ListItems` (`G02AddLibraryTests.cs:48`), after the scanned screenshot is captured. It failed in Light and Dark at 1920x1080 on run `phase09-visual`, passed on a Light rerun, and on the final run `phase09-visual-final` failed once at Dark 1280x800 (line 52) while Dark 1920x1080 passed, so it is not tied to one size. Harness or UIA-provider robustness, not a visual defect. | `artifacts/e2e/phase09-visual/Dark/e2e.trx` | 01 (harness) |
 | K103 | P2 | MEASURED | (Found by Phase 09 slice 4, 2026-11-19.) `Invoke-GoldenJourneys.ps1` sets `$ErrorActionPreference = 'Stop'`, so when its output is piped or redirected (for example `2>&1` inside `Use-DesktopLock.ps1`), the first `[FAIL]` line `dotnet test` writes to stderr is raised as a terminating `NativeCommandError`: the remaining themes never run and the summary report is never written. Workaround used: run the script in a child `powershell` through `Start-Process -RedirectStandardOutput/-RedirectStandardError`. | runs `phase09-visual`, `phase09-min` logs | 01 (harness) |
 | K104 | P2 | MEASURED | (Found by Phase 09 slice 4, 2026-11-19.) At 1280x800 the reader's top toolbar (page buttons, import/export state, five highlight swatches, Highlight, Add note) is wider than the pane: "Add note" is clipped at the right edge with no overflow. Layout, not tokens. The inspector tab strip in the same view correctly shows the slice-3 overflow button. | `artifacts/e2e/phase09-surfaces/Dark/G3/reader-open-1280x800.png` | 12 |
+| K105 | P3 | MEASURED | (Found by Phase 09 slice 5, 2026-11-19.) The fast suite is slow again: `OgmaLibrary.Tests.dll` took 18 min 29 s for 1,262 tests (Release, `-m:1`, `Category!=Performance`) at `135187f3`, against about 4.5–6 min for the whole fast suite on 2026-09-25. The first attempt was stopped by a 10-minute tool limit with the test host near idle (CPU about 4 s per minute), which points to wait-bound tests rather than compute. Cause not profiled; machine load from other lanes was not measured. | `artifacts/phase09-gates/07-test.txt` (local) | 24 |
+| K106 | P2 | MEASURED | (Resolved. Phase 09 regression found and fixed by Phase 09 slice 5, 2026-11-19, commit `5520c82c`.) The 2 px focus ring was a `BorderThickness` on the focused button itself, so a focused toolbar button grew by 2 px; at 1280x800 that pushed *Folders* into the overflow menu while *Filter* held focus, and `Navigation_DrawersAreExclusiveAndStandaloneHasNoDeadEntries` failed in both themes. The ring is now a `FocusAdorner` outside the layout box. | `FocusRing_DoesNotChangeControlSize` (red 61→63 px, then green); `artifacts/e2e/phase09-final` and `phase09-final2` (local) | 09 |
 
 ## Items verified as working (do not regress)
 

diff --git a/docs/plans/sept-23-kaizen/EXECUTION-LOG.md b/docs/plans/sept-23-kaizen/EXECUTION-LOG.md
@@ -54,3 +54,4 @@ These decisions were taken under that authority. Each is the recommended option 
 - **2026-09-27** — Session resumed. Three interrupted lanes were found with commits and uncommitted work: **Phase 09** (Lamplit; 10 commits, completion record draft), **Phase 13** (unified search; 7 commits), and the **stabilisation lane** (5 commits; K93, migration gate, K71 close, locked-PDF message, OCR fixture). At the owner's request, three subagents were relaunched, one per existing worktree, with explicit finish-and-verify instructions. Phase 13 renumbers its ADR to 0020 so that it does not collide with Lamplit's ADR-0019. Phase 09 merges `main` into its lane before verifying. The status register was corrected: Phases 08 and 17 are IMPLEMENTED (merged 2026-09-25).
 - **2026-09-27** — Owner request: an About dialog crediting **Peter Bamuhigire, Lead Developer** (www.techguypeter.com, peter@techguypeter.com, +256 784 464178) and linking the Ogma website https://ogma.techguypeter.com/, made beautiful in the Lamplit direction. Built in its own lane and merged (`4c94be38`). It is reachable from Settings ("About Ogma Library") and the command palette. Links are allow-listed to those four URIs only. Real-window screenshots (Light and Dark) are in `docs/implementation/execution/evidence/sept-23-kaizen/about/`. Gates on merged `main`: build 0 warnings; Architecture 52/52; UI 243/243; core 1,151/1,152. The single failure is K96 (worker recovery 2,850 ms against a 2 s budget while three lanes loaded the 4-core machine; unrelated to About). A network outage interrupted all four lanes; each was resumed with its context intact.
 - **2026-11-19** — Phase 09 slice 3 (executor session). Owner-proxy decision **D-15** (the work order's recommended option): the TabStrip **overflow menu is built now** as a style-level control — every `TabControl` gets a trailing, keyboard-reachable "More tabs" button (`Controls/TabOverflowButton`, en+fr name `Controls.TabStrip.More` published as an app resource by `Themes/StyleStrings`) that lists the tabs not fully in view and selects one on click; **adoption and verification in the detail inspector and reader side panel stay with Phases 11/12**. No Lucide "ellipsis" glyph is vendored in `scripts/icons/lucide-subset.json` and fetching one was out of bounds, so the button draws three token-filled dots (no new asset). Evidence: headless tests `Sept23Phase09TabOverflowTests` (8 pass); real-window check NOT_ASSESSED in this slice.
+- **2026-11-19** — Phase 09 slice 5 (executor session): **IMPLEMENTED**, not COMPLETE. The full gate set on the lane head passes except `Test-RequirementAccountability.ps1`, which throws because `main` archived the `aug-39` matrix (K100). The first locked journey run found a **Phase 09 regression (K106)**: the 2 px focus ring was a border on the focused button, so a focused *Filter* pushed *Folders* into overflow at 1280 and the Navigation drawers journey failed in both themes. Fixed in `5520c82c` (the ring is now a layout-neutral `FocusAdorner`; red-then-green headless test). The re-run `phase09-final2` on the fix passes every assessed journey in Light and Dark at both sizes (78 PASS, 0 FAIL, 16 NOT ASSESSED placeholders), including G3 and G4, which failed on the previous build under load; one green run does not close K32 or K40. 22 Light/Dark screenshots at both sizes, plus the gallery, replace the stale evidence. The TabStrip decision is D-15 (above). K105 (fast suite back to 18 min) was logged for Phase 24. Open: K100, the owner walkthrough, hosted CI, and the accessibility runs (Phase 21). [Record](../../implementation/execution/phase-sept23-09-completion.md).

diff --git a/docs/plans/sept-23-kaizen/MILESTONES.md b/docs/plans/sept-23-kaizen/MILESTONES.md
@@ -93,9 +93,16 @@ CODE (real engines in tests); real-window run in progress.
 
 ## In progress
 
-- **Phase 09, "The Lamplit Library" (D-14).** A vivid, jewel-toned visual identity in response to
-  the owner's feedback ("too greyish and boring"). Concept screenshots first, then the full
-  design system.
+- **Phase 09, "The Lamplit Library" (D-14): IMPLEMENTED 2026-11-19 on `kaizen/phase-09`, awaiting
+  merge and the owner walkthrough.** A vivid, jewel-toned visual identity in response to the
+  owner's feedback ("too greyish and boring"): one type scale on Spectral, Public Sans and
+  JetBrains Mono with a 12 px floor; Lamplit colour roles and a Night Library dark theme; one
+  button-variant set; amber selection; licensed duotone icons; cloth-bound generated covers; a
+  vector QR; a TabStrip overflow menu (D-15); and a design-token lint in CI. No literal font size,
+  `White` or hex colour remains in the views. Light and Dark screenshots at both sizes are in the
+  [completion record](../../implementation/execution/phase-sept23-09-completion.md). Not COMPLETE:
+  the accountability script fails on `main`'s archived `aug-39` matrix (K100), and the owner
+  walkthrough is pending.
 - **Phase 13, unified search.** Phrases, typos, Unicode names and field queries; honest status;
   no race.
 

diff --git a/docs/plans/sept-23-kaizen/README.md b/docs/plans/sept-23-kaizen/README.md
@@ -66,7 +66,7 @@ Update this table as each phase moves. A phase is **COMPLETE** only under the De
 | 06 | Processing pipeline, jobs and identity promotion | B | **IMPLEMENTED** 2026-09-25 (E2E G2 processing journeys pending re-run) | [record](../../implementation/execution/phase-sept23-06-completion.md) |
 | 07 | Navigation and information architecture | B | **IMPLEMENTED** 2026-09-25 (owner walkthrough pending) | [record](../../implementation/execution/phase-sept23-07-completion.md) |
 | 08 | Settings and capability centre | B | **IMPLEMENTED** 2026-09-25 (Settings journey PASS both sizes) | [record](../../implementation/execution/phase-sept23-08-completion.md) |
-| 09 | Design system and visual identity | C | IN PROGRESS (lane: verification and merge) | — |
+| 09 | Design system and visual identity | C | **IMPLEMENTED** 2026-11-19 (branch `kaizen/phase-09`; all assessed journeys PASS both themes and sizes; open: accountability gate K100, owner walkthrough) | [record](../../implementation/execution/phase-sept23-09-completion.md) |
 | 10 | Catalogue experience | C | NOT STARTED | — |
 | 11 | Book detail inspector overhaul | C | NOT STARTED | — |
 | 12 | Reader experience | C | NOT STARTED | — |

diff --git a/docs/implementation/execution/00-execution-status.md b/docs/implementation/execution/00-execution-status.md
@@ -14,6 +14,11 @@ claims below describe gate evidence, not a working product. Phase progress is tr
 [status register](../../plans/sept-23-kaizen/README.md#status-register) and
 [execution log](../../plans/sept-23-kaizen/EXECUTION-LOG.md).
 
+- **Sept-23 Phase 09** (design system, "Lamplit Library"): **IMPLEMENTED** 2026-11-19 on branch
+  `kaizen/phase-09` (rollback `acb9d36c`). Gates pass except `Test-RequirementAccountability.ps1`,
+  which fails on the archived `aug-39` matrix (K100). The owner walkthrough is pending. See the
+  [completion record](phase-sept23-09-completion.md).
+
 ## Aug-39 ledger (historical gate evidence)
 
 Requirement baseline: Ogma Library SRS v2.1, 101 FRs, 29 NFRs and 32 controls
